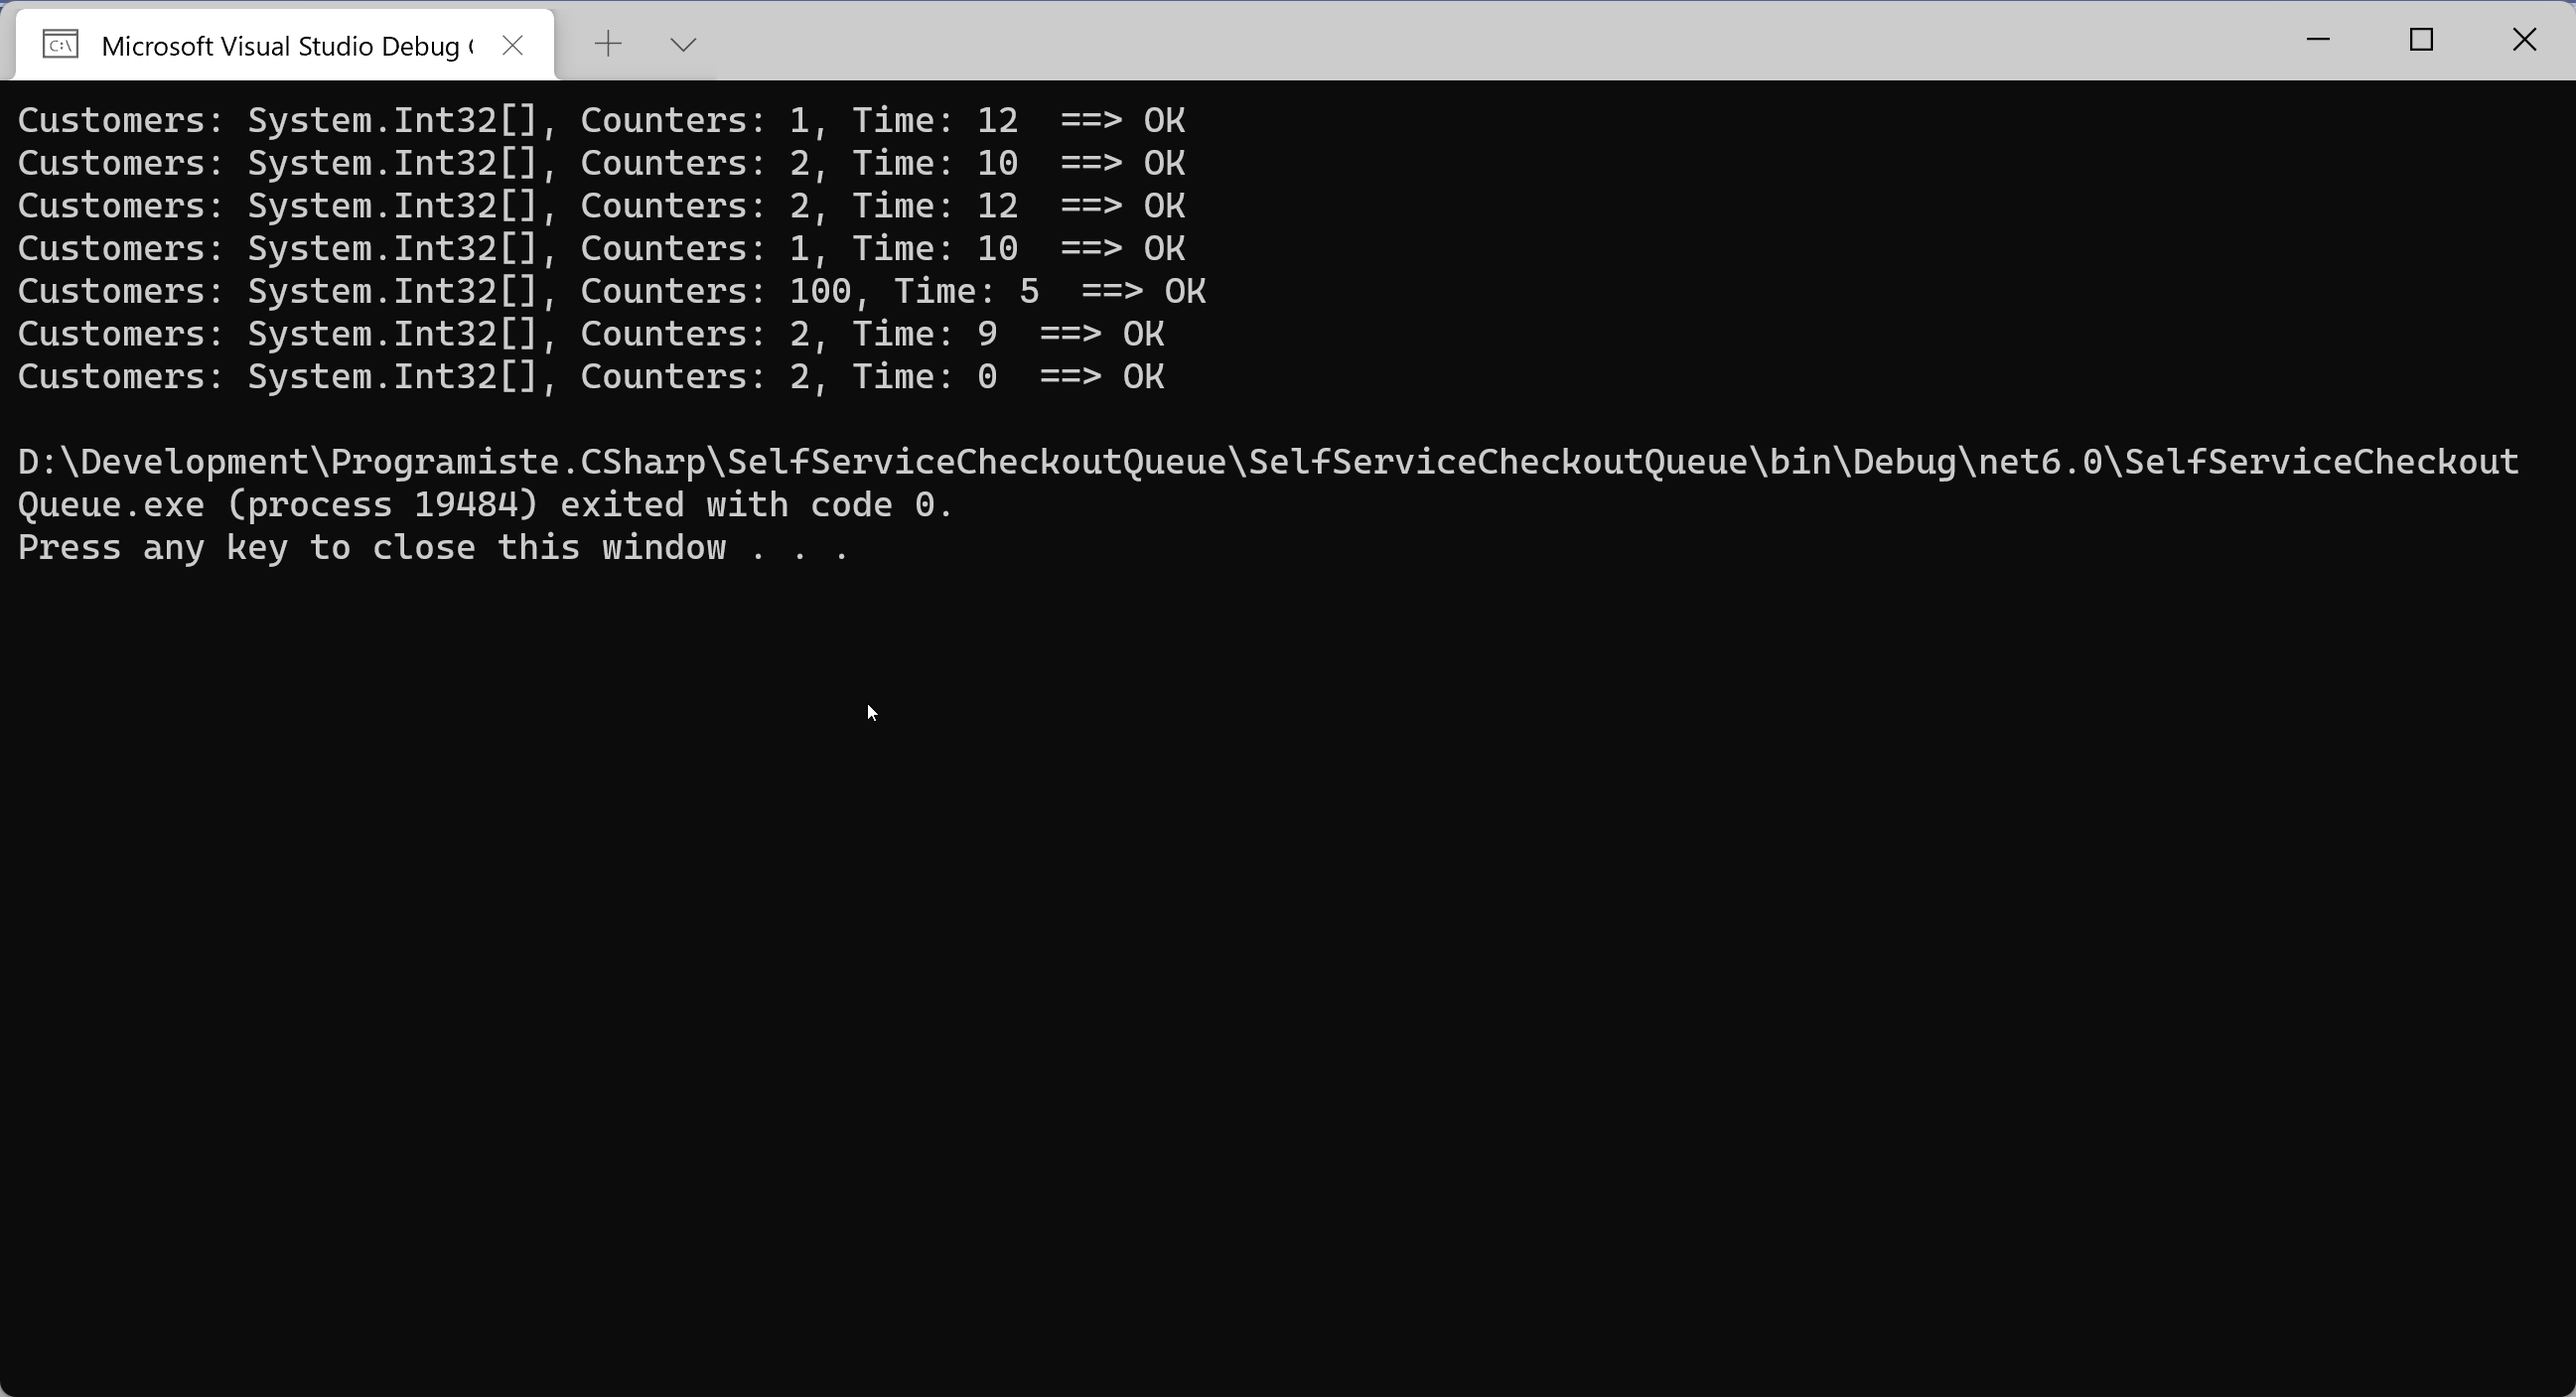
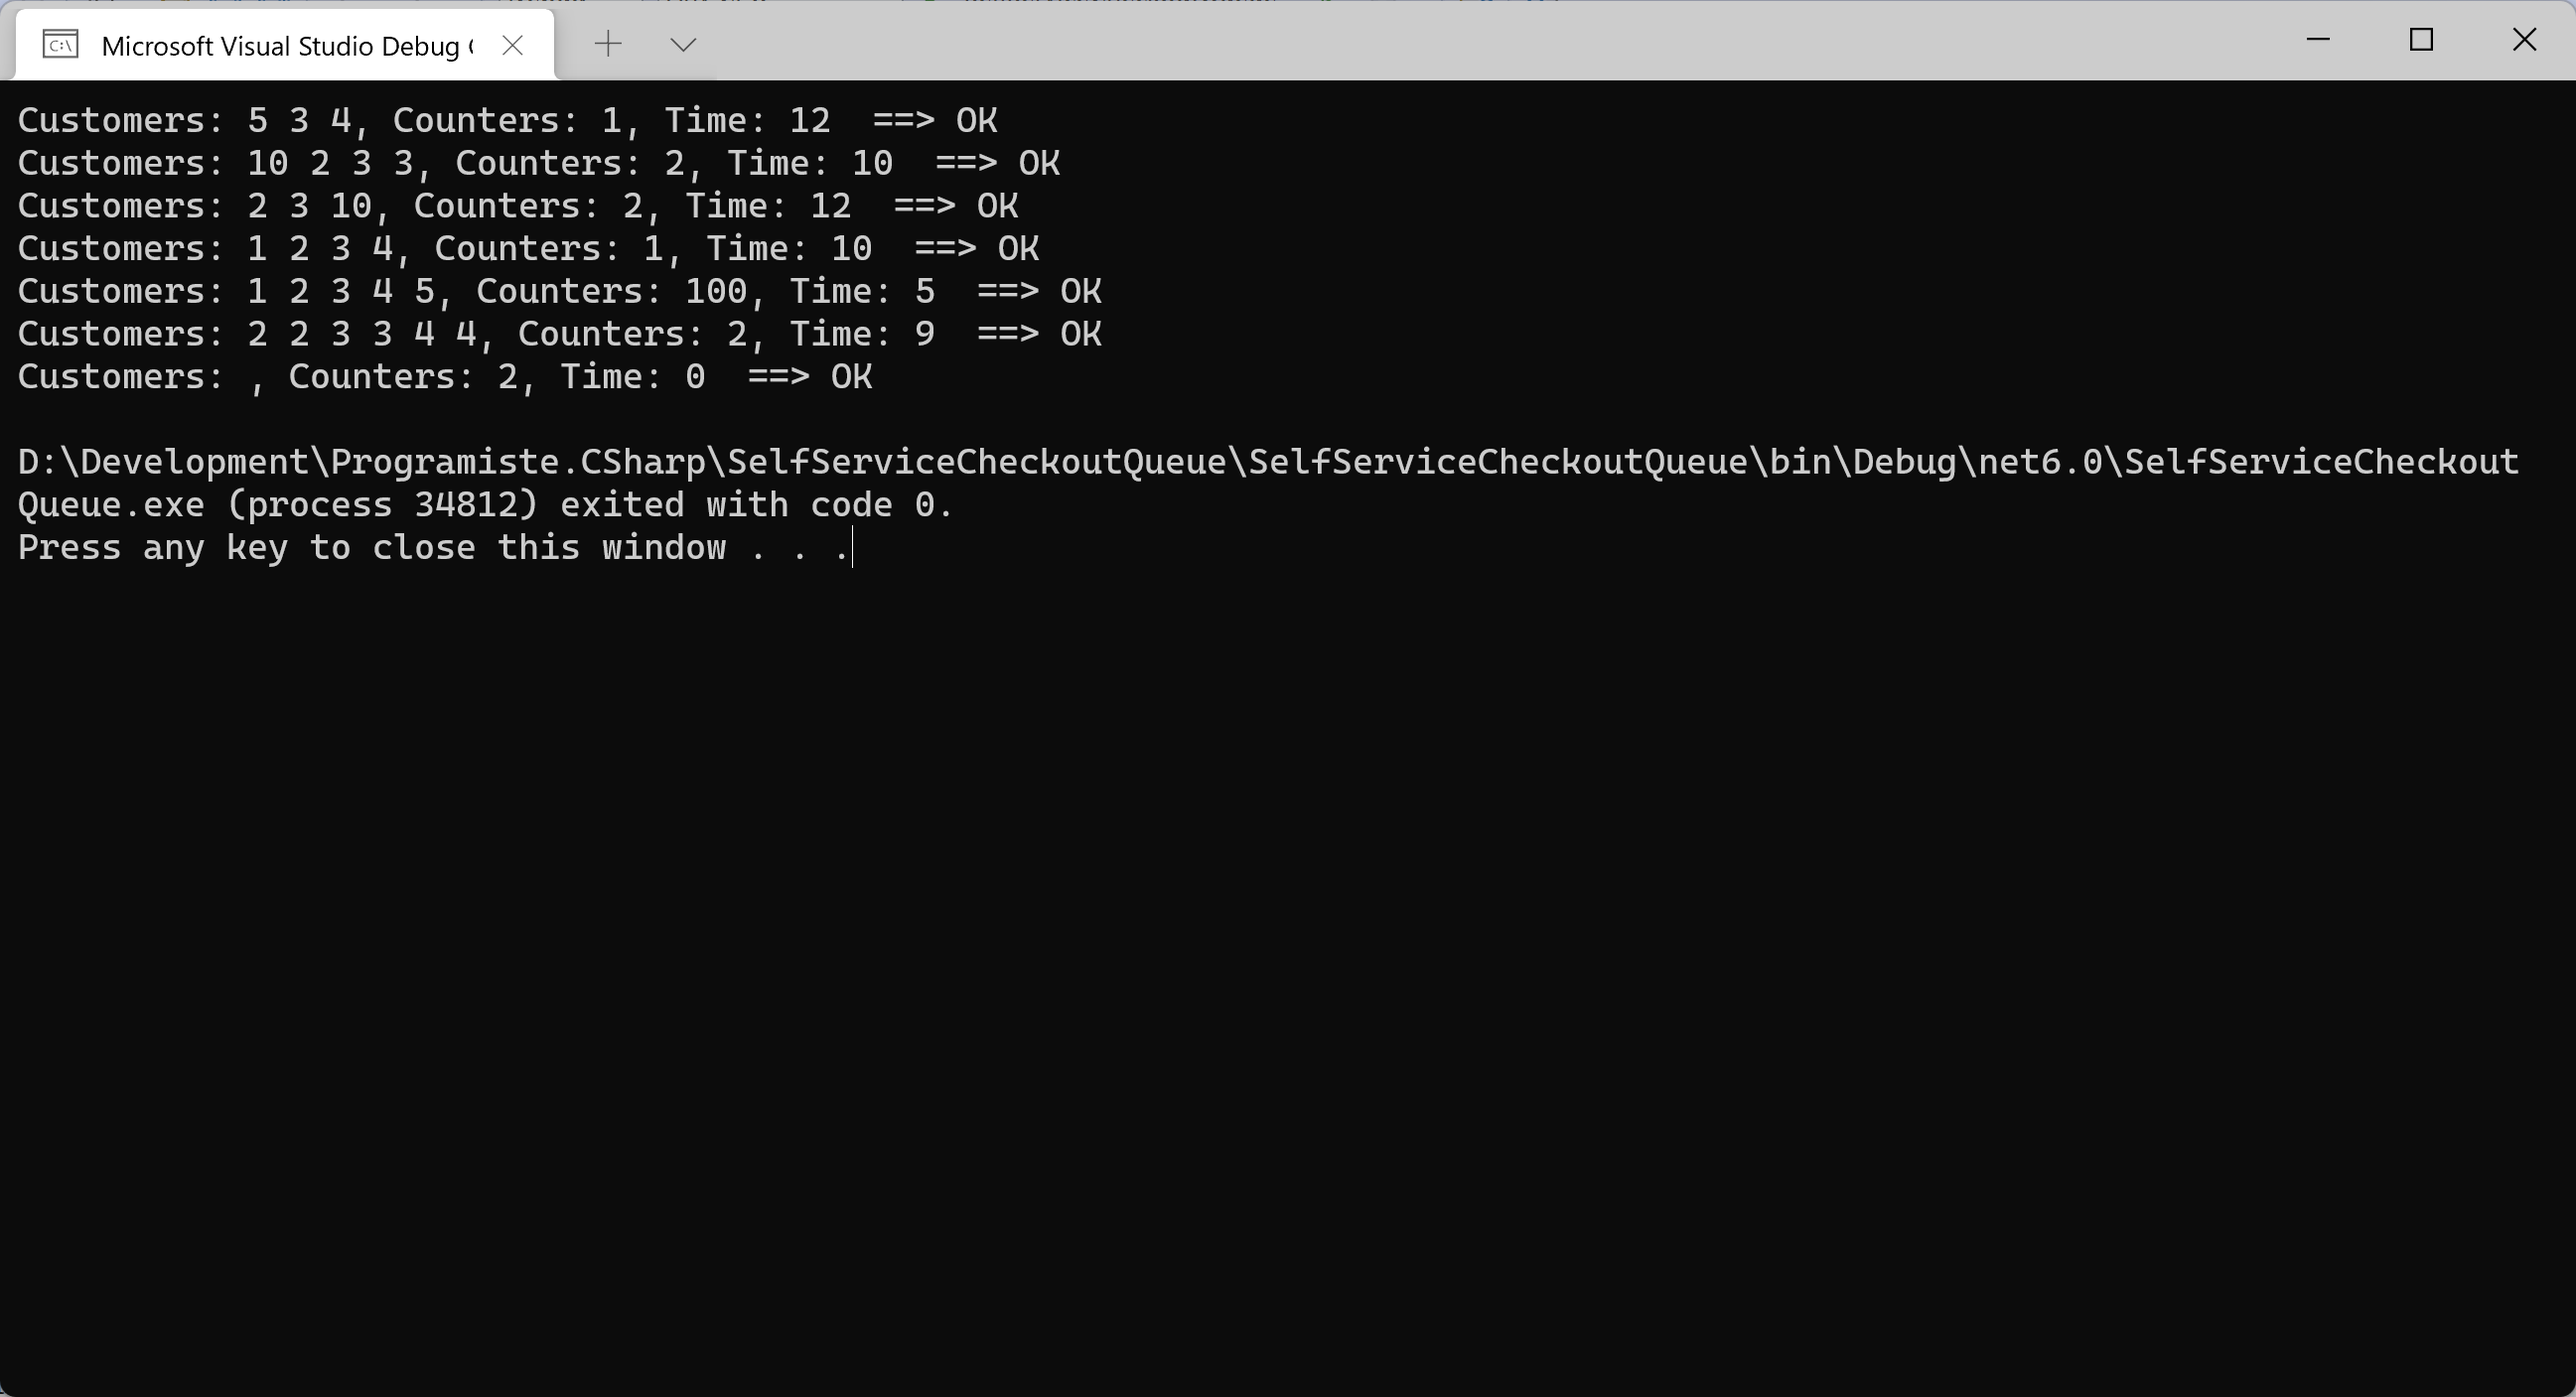
SelfServiceCheckoutQueue - cleanup

Changed region(s): [[0.0937, 0.0611, 0.4684, 0.2751], [0.1561, 0.3362, 0.2186, 0.3667], [0.9992, 0.0, 1.0, 0.0306]]

diff --git a/SelfServiceCheckoutQueue/SelfServiceCheckoutQueue/Program.cs b/SelfServiceCheckoutQueue/SelfServiceCheckoutQueue/Program.cs
@@ -11,7 +11,7 @@ void Test(int[] customersProcessingTimes, int selfserviceCountersCount, int expe
 	var supermarket = new Supermarket(selfserviceCountersCount);
 	var computedTime = supermarket.ProcessCustomers(customersProcessingTimes);
 
-	Console.Write($"Customers: {customersProcessingTimes}, Counters: {selfserviceCountersCount}, Time: {computedTime}");
+	Console.Write($"Customers: {String.Join(" ", customersProcessingTimes)}, Counters: {selfserviceCountersCount}, Time: {computedTime}");
 	if (computedTime == expectedTimeToVerify)
 	{
 		Console.WriteLine("  ==> OK");

diff --git a/SelfServiceCheckoutQueue/README.md b/SelfServiceCheckoutQueue/README.md
@@ -4,6 +4,8 @@ Máme supermarket a v něm samoobslužné podkladny. Známe počet pokladen, vš
 
 Sestavte aplikaci, která bude počítat, za jak dlouho bude odbaven poslední zákazník.
 
+Příklady:
+
 Zákazníci (potřebné časy) | Počet pokladen | Potřebná doba
 ------------------------------|-----------------|----------------
 5, 3, 4 | 1 | 12
@@ -29,6 +31,7 @@ Na vstupu předpokládejte:
 * Upravte uspořádání, aby bylo možné v průběhu času zákazníky do fronty přidávat (např. "po deseti jednotkách času přijde do fronty další zákazník, který potřebuje na odbavení u pokladny 7 jednotek času)
 
 ## Inspirace
+Neoptimalizovaný základní postup algoritmu "v časových taktech":
 ```csharp
 Test(new int[] { 5, 3, 4 }, 1, 12);
 Test(new int[] { 10, 2, 3, 3 }, 2, 10);
@@ -43,7 +46,7 @@ void Test(int[] customersProcessingTimes, int selfserviceCountersCount, int expe
 	var supermarket = new Supermarket(selfserviceCountersCount);
 	var computedTime = supermarket.ProcessCustomers(customersProcessingTimes);
 
-	Console.Write($"Customers: {customersProcessingTimes}, Counters: {selfserviceCountersCount}, Time: {computedTime}");
+	Console.Write($"Customers: {String.Join(" ", customersProcessingTimes)}, Counters: {selfserviceCountersCount}, Time: {computedTime}");
 	if (computedTime == expectedTimeToVerify)
 	{
 		Console.WriteLine("  ==> OK");
